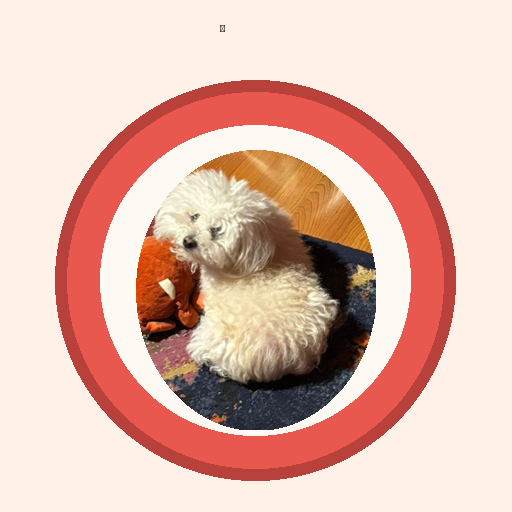
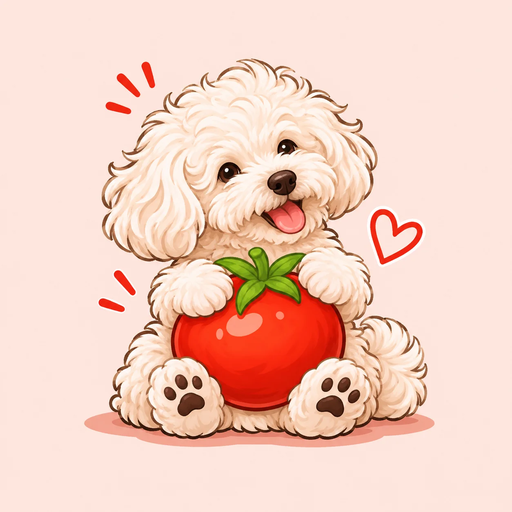
Add files via upload

diff --git a/index.html b/index.html
@@ -1,4 +1,4 @@
-<!doctype html><html lang="it"><head><meta charset="utf-8"><meta name="viewport" content="width=device-width,initial-scale=1,viewport-fit=cover"><meta name="theme-color" content="#fff4ed"><meta name="apple-mobile-web-app-capable" content="yes"><meta name="apple-mobile-web-app-status-bar-style" content="default"><meta name="apple-mobile-web-app-title" content="Mavis 🍅"><link rel="manifest" href="manifest.webmanifest"><link rel="apple-touch-icon" href="assets/icon.png"><link rel="preload" as="image" href="assets/mavis-cartoon.webp"><title>Mavis Pomodoro 🐾</title><link rel="stylesheet" href="style.css"></head><body>
+<!doctype html><html lang="it"><head><meta charset="utf-8"><meta name="viewport" content="width=device-width,initial-scale=1,viewport-fit=cover"><meta name="theme-color" content="#fff4ed"><meta name="apple-mobile-web-app-capable" content="yes"><meta name="apple-mobile-web-app-status-bar-style" content="default"><meta name="apple-mobile-web-app-title" content="Mavis 🍅"><link rel="manifest" href="manifest.webmanifest"><link rel="apple-touch-icon" href="assets/apple-touch-icon.png?v=10"><link rel="preload" as="image" href="assets/mavis-cartoon.webp"><title>Mavis Pomodoro 🐾</title><link rel="stylesheet" href="style.css"></head><body>
 <div id="intro" class="intro" aria-label="Introduzione di Mavis"><div class="intro-spark spark-a">✦</div><div class="intro-spark spark-b">♡</div><div class="intro-spark spark-c">🍅</div><img src="assets/mavis-cartoon.webp" alt="Mavis abbraccia un pomodoro" class="intro-mavis"><div class="intro-title">Mavis Pomodoro <span>♡</span></div><div class="intro-subtitle">Un piccolo regalo fatto con amore 🐾</div><button id="intro-skip" class="soft intro-skip">Salta introduzione →</button></div><div id="welcome" class="welcome"><div class="welcome-card"><div class="welcome-art"><img src="assets/mavis-cartoon.webp" alt="Mavis cartoon abbraccia un pomodoro"></div><div class="welcome-copy"><span class="eyebrow">🐾 UN REGALO SPECIALE PER GIADA</span><h1>Mavis <em>Pomodoro</em> 🍅</h1><p>Un po’ di concentrazione, un po’ di riposo e tante coccole da Mavis!</p><div id="welcome-first"><button class="primary welcome-start" id="welcome-start">START ♡</button></div><form id="session-setup" class="session-setup" hidden><h2>Prepariamo il tuo pomodoro!</h2><label>🍅 Minuti di studio <input id="setup-focus" type="number" min="1" max="180" value="25" required></label><label>🌸 Minuti di pausa <input id="setup-break" type="number" min="1" max="60" value="5" required></label><button class="primary welcome-start" type="submit">Inizia a studiare ▶</button><button type="button" id="setup-back" class="soft">← Indietro</button></form></div></div></div><div class="app"><aside class="sidebar"><div class="brand"><span class="brand-emoji">🍅</span><div><strong>Mavis Pomodoro</strong><small>Un pomodoro alla volta 🐾</small></div></div><nav id="nav"><button data-page="timer" class="active">🍅 <span>Pomodoro</span></button><button data-page="goals">🎯 <span>Obiettivi</span></button><button data-page="collection">🏆 <span>Collezione</span></button><button data-page="stats">📊 <span>Statistiche</span></button><button data-page="settings">⚙ <span>Impostazioni</span></button></nav><div class="sidebar-dog"><img src="assets/mavis-timer.webp" alt="Mavis"><span>Fai il tifo per te! ♡</span></div></aside>
 <main><header><div><div class="eyebrow">🐾 IL TUO ANGOLO FELICE</div><h1 id="page-title">È ora di concentrarsi!</h1><p id="page-subtitle">Mavis è qui per farti compagnia 💗</p></div><div class="date-pill" id="today"></div></header>
 <section id="timer" class="page active"><div class="dashboard"><div class="timer-panel panel"><div class="tomato tomato-cartoon"><img class="tomato-cartoon-art" src="assets/pomodoro-cartoon-base.webp" alt="Pomodoro cartoon sorridente, seduto e con un cartello tra le mani"><div class="timer-inner cartoon-sign"><div class="tiny">🐾 SESSIONE DI CONCENTRAZIONE 🐾</div><div class="cartoon-sign-main"><div class="mavis-reveal" id="mavis-reveal"><img class="timer-dog" src="assets/mavis-cartoon-pomodoro.webp" alt="Mavis, il cagnolino bianco con il pomodoro, si rivela ogni 5 minuti"><div class="mavis-mask" id="mavis-mask"></div></div><div class="cartoon-sign-time"><div id="clock">25:00</div><div id="timer-label">Pronta a iniziare?</div></div></div><div id="reveal-status" class="reveal-status">Mavis appare ogni 5 minuti di studio 🐾</div><div class="timer-caption" id="timer-caption">Mavis crede in te! ♡</div></div></div><div class="timer-actions"><button class="round" id="reset" title="Ricomincia">↺</button><button class="primary" id="start">▶ Inizia</button><button class="round" id="skip" title="Termina la sessione">⏭</button></div><div class="modes"><button class="selected" data-mode="focus">🍅 Focus <small id="focus-duration">25 min</small></button><button data-mode="short">☕ Pausa breve <small id="short-duration">5 min</small></button><button data-mode="long">🌸 Pausa lunga <small id="long-duration">15 min</small></button></div><div class="media-test"><p id="media-status" role="status">🎧 Audio di sottofondo automatico durante il timer.</p></div><button class="soft" id="new-session">✨ Nuova sessione / cambia durata</button><div class="hint">Il timer continua a contare anche se chiudi la pagina. Tieni aperta l'app per sentire il suono finale.</div></div>

diff --git a/sw.js b/sw.js
@@ -1,5 +1,5 @@
-const CACHE='mavis-pomodoro-ipad-pwa-9';
-const ASSETS=["./", "./index.html", "./style.css", "./app.js", "./manifest.webmanifest", "./assets/mavis-ambiente.wav", "./assets/mavis-silenzio.wav", "./assets/ding.wav", "./assets/icon-512.png", "./assets/icon.png", "./assets/mavis-cartoon.webp", "./assets/mavis-original.webp", "./assets/mavis-timer.webp", "./assets/mavis.webp", "./assets/pomodoro-cartoon-base.webp", "./assets/mavis-cartoon-pomodoro.webp", "./assets/pop.wav", "./assets/whoosh.wav"];
+const CACHE='mavis-pomodoro-ipad-pwa-10';
+const ASSETS=["./", "./index.html", "./style.css", "./app.js", "./manifest.webmanifest", "./assets/mavis-ambiente.wav", "./assets/mavis-silenzio.wav", "./assets/ding.wav", "./assets/icon-512.png", "./assets/icon.png", "./assets/apple-touch-icon.png", "./assets/mavis-cartoon.webp", "./assets/mavis-original.webp", "./assets/mavis-timer.webp", "./assets/mavis.webp", "./assets/pomodoro-cartoon-base.webp", "./assets/mavis-cartoon-pomodoro.webp", "./assets/pop.wav", "./assets/whoosh.wav"];
 self.addEventListener('install',event=>{
   event.waitUntil(caches.open(CACHE).then(cache=>cache.addAll(ASSETS)));
   self.skipWaiting();
